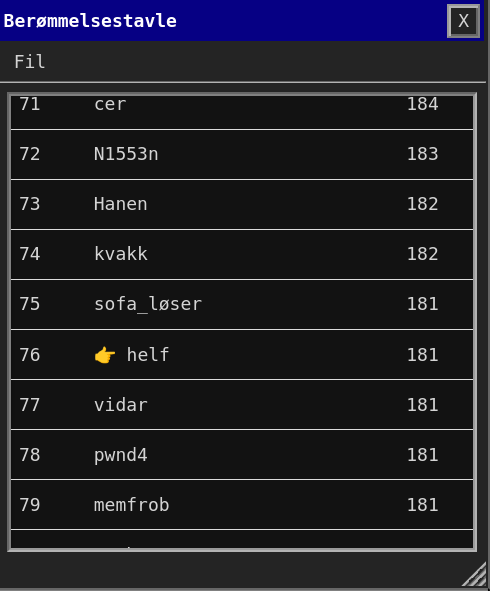
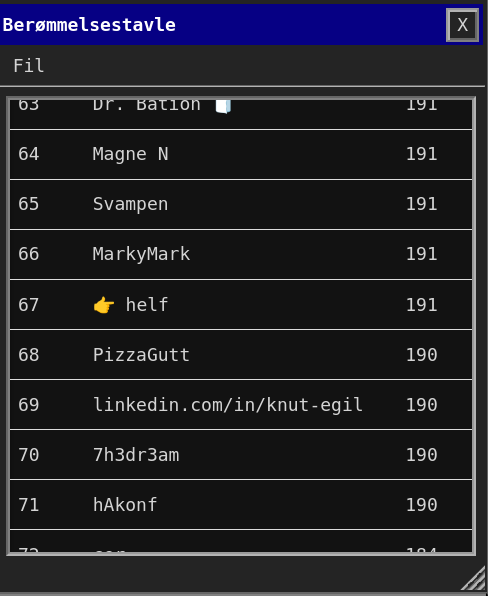
score change

Changed region(s): [[0.0, 0.0, 1.0, 1.0]]

diff --git a/p26e-julekalender-2023/README.md b/p26e-julekalender-2023/README.md
@@ -5,7 +5,7 @@ Julekalenderen til PST 2023, i samarbeid med Kripos og NSM. Dette er en personli
 
 <img alt="scoreboard" src="https://github.com/BirkJohannessen/writeups/blob/master/p26e-julekalender-2023/fun/scoreboard.png">
 
-Julen ringer inn og den hjelpene halvalven, helf lander på 181 poeng. 
+Julen ringer inn og den hjelpene halvalven, helf lander på 191 poeng. 
 
 ## 1. Desember - mobil-detektiven
 
